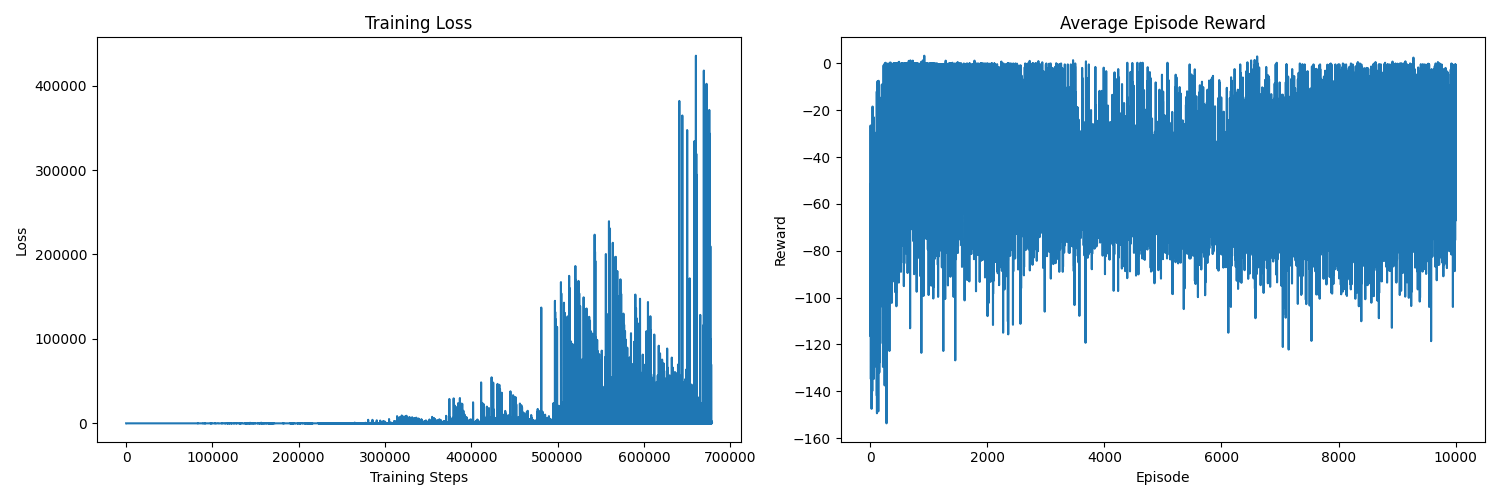
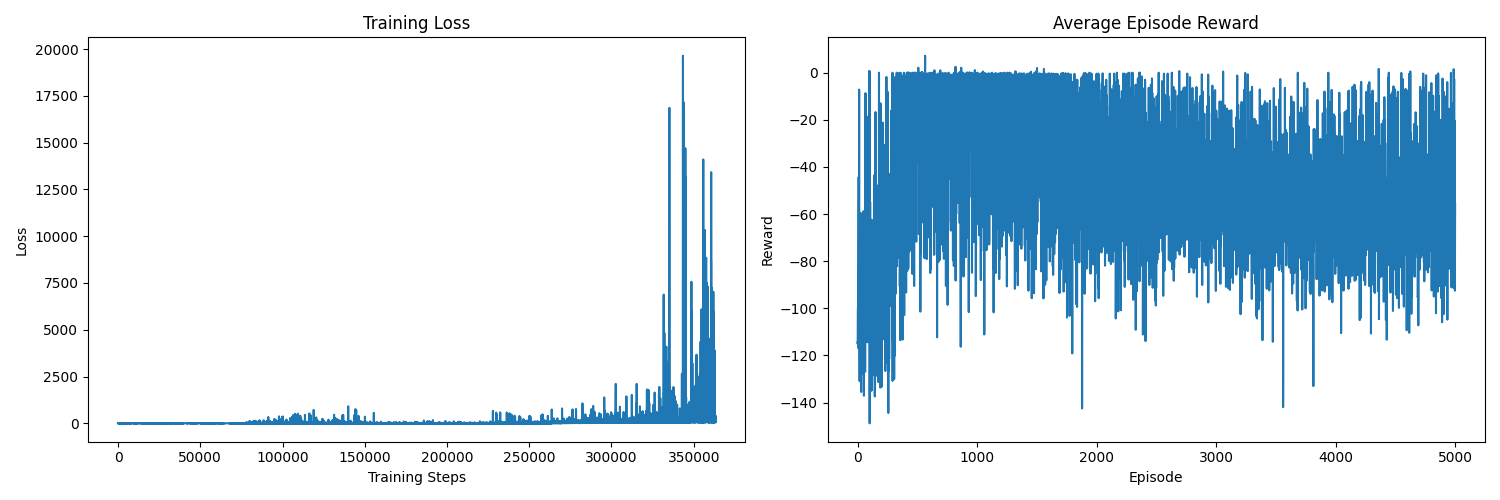
new nfsp

diff --git a/nfsp2.py b/nfsp2.py
@@ -308,7 +308,7 @@ class AggressiveNFSP:
             # Plot training progress periodically
             if (episode + 1) % 100 == 0:
                 self.plot_training_progress()
-                self.save_model(f"aggressive_nfsp_model_episode_{episode+1}.pth")
+                # self.save_model(f"aggressive_nfsp_model_episode_{episode+1}.pth")
         
         # Save final model
         self.save_model("aggressive_nfsp_model_final.pth")
@@ -381,7 +381,7 @@ class NFSPBot(pyspiel.Bot):
 def train_agent():
     game = pyspiel.load_game("chess")
     agent = AggressiveNFSP(game)
-    agent.train(num_episodes=10000)
+    agent.train(num_episodes=5000)
     return agent
 
 if __name__ == "__main__":
